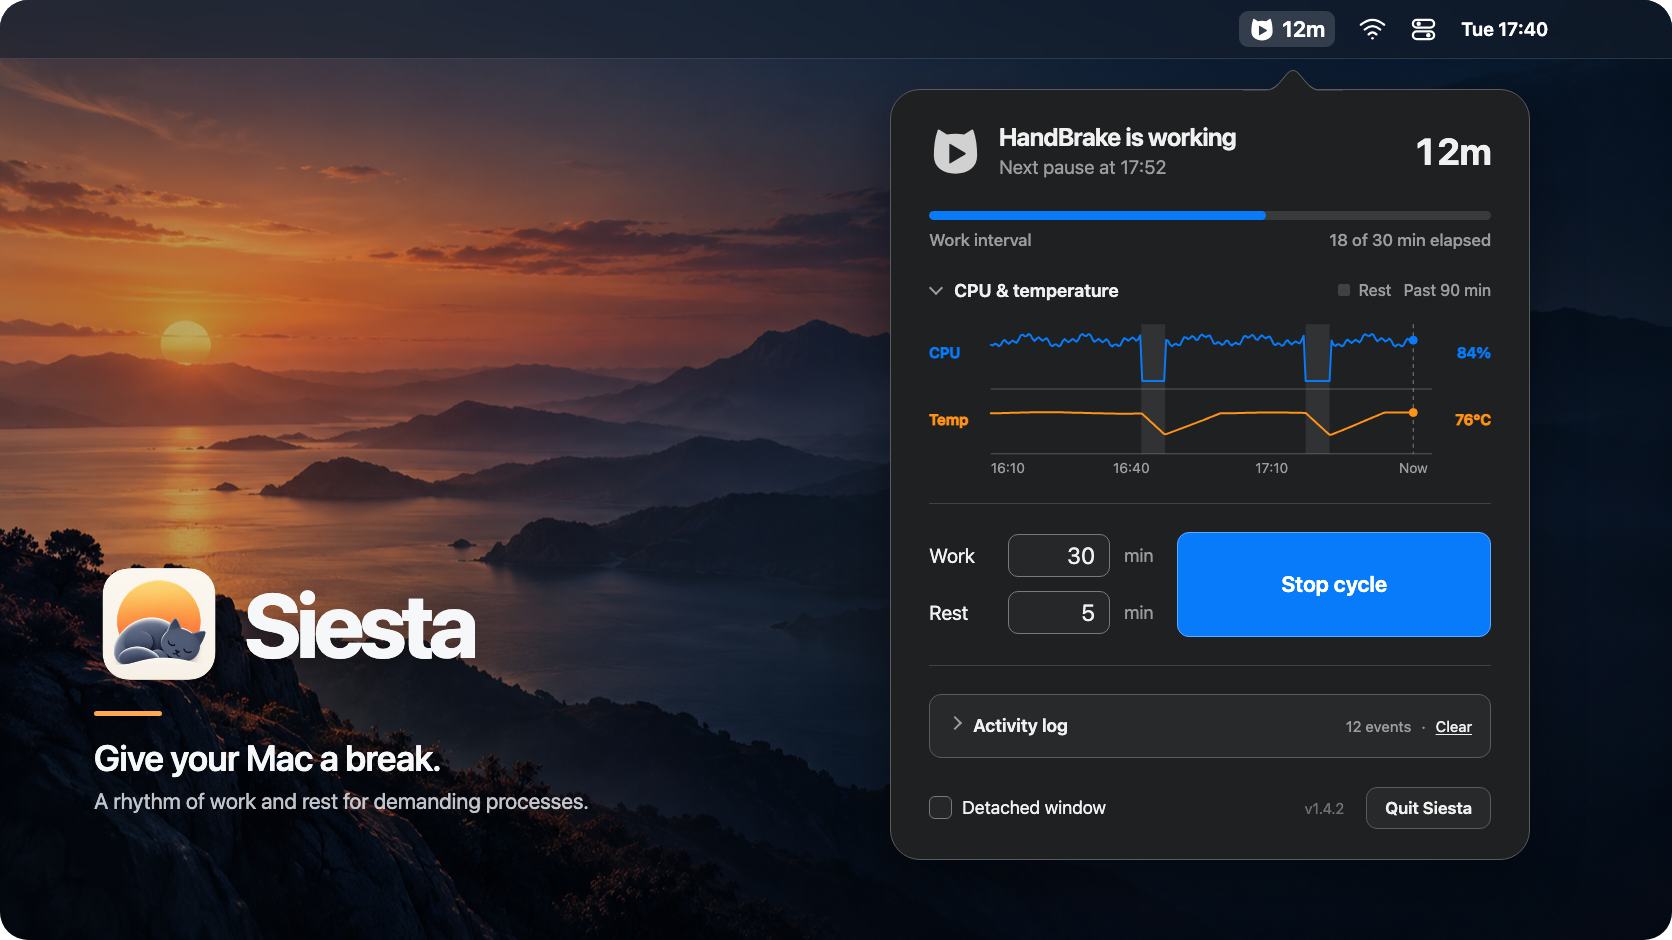
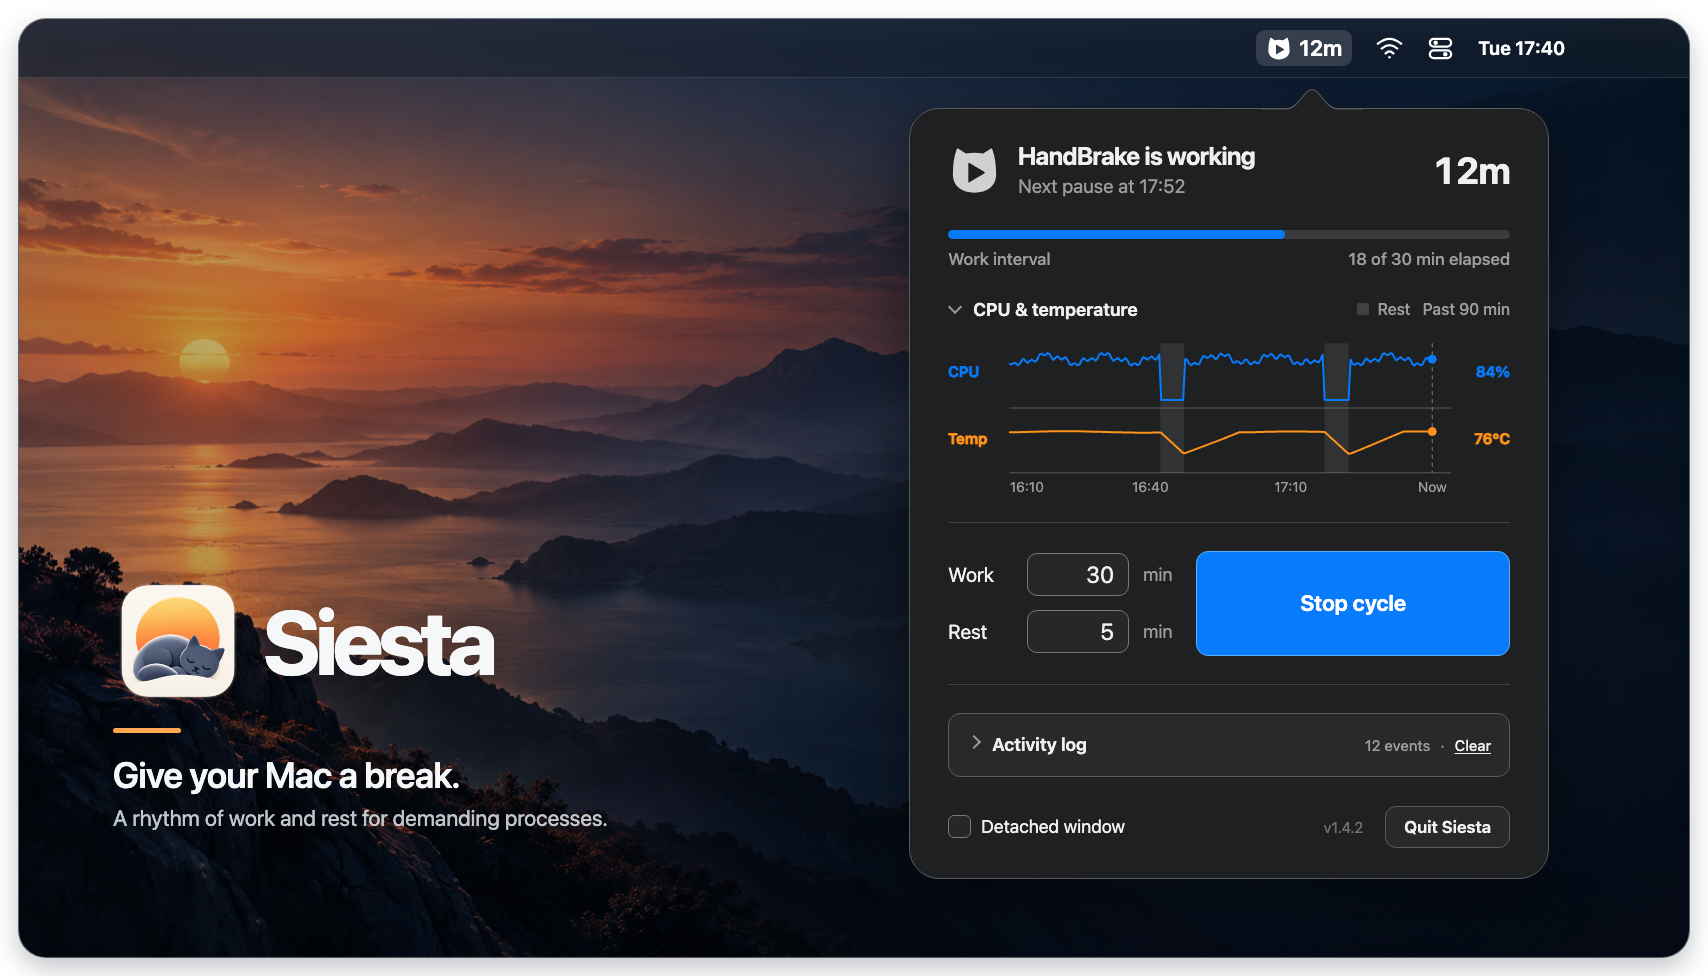
README: refreshed images; section titles and taglines taken from the former image headings

diff --git a/README.md b/README.md
@@ -26,7 +26,9 @@ Currently it watches **HandBrake**. The code is structured so other encoders (Td
 - If HandBrake stays idle for at least the rest duration, the work counter resets: it already had its rest.
 - Stopping or quitting Siesta always resumes a frozen worker first.
 
-### At a glance
+### Four states, one familiar face
+
+*The cat tells you what Siesta is doing, right from the menu bar.*
 
 Siesta keeps its status visible without crowding the menu bar. The cat changes to show whether the cycle is stopped, HandBrake is encoding, taking a scheduled rest, or Siesta is waiting for work. During work and rest, the number beside it shows the minutes until the next change.
 
@@ -38,6 +40,8 @@ Siesta keeps its status visible without crowding the menu bar. The cat changes t
 
 ### The panel
 
+*Everything Siesta knows, one click away.*
+
 Clicking the menu bar icon opens a popover with everything Siesta knows at that moment: the current state and a countdown to the next change, a thin progress line for the running interval, the Work and Rest minutes, the Start/Stop cycle button, a collapsible activity log and a Quit button. "Next pause at" and "Resumes at" show exact times, because pauses start on a whole minute and rests last exactly the minutes you set.
 
 You can change Work and Rest while the cycle runs: the new value applies as soon as you confirm it with Return, Tab or a click elsewhere, and the change appears in the activity log. In the two fields, the ↑ and ↓ keys step the value by one minute, by ten with Shift. **Stop cycle** stops Siesta's cycle, never the encoder.
@@ -46,19 +50,23 @@ You can change Work and Rest while the cycle runs: the new value applies as soon
   <img src="Resources/siesta-interface-compact.png" alt="Compact Siesta popover in light and dark mode, with the graph collapsed to live CPU and temperature readings">
 </a>
 
-### The chart
+### See the cycle unfold
+
+*Open the graph to follow CPU load, temperature and scheduled rests.*
 
 Expand **CPU & temperature** to see the recent history. The blue line is the encoder's CPU usage as a share of the whole Mac, from 0% to 100%; the orange line is the hottest CPU die. The shaded bands mark scheduled rests: CPU usage falls while the worker is paused, and the temperature line shows how the Mac responds.
 
 The chart starts with a five-minute view, grows with the session, and then keeps a rolling six-hour history. Hovering over the plot shows the readings and the time of that moment. Pinch on the trackpad or scroll over the plot to zoom in on the recent part, down to 30 seconds and never beyond the recorded history; click **Reset** to return to the automatic view.
 
-Collapse the chart with the chevron next to its title and the header keeps showing the current CPU and temperature readings, as in the compact view above. Siesta remembers whether you left the chart and the log open or closed.
+Collapse the chart with the chevron next to its title and the header keeps showing the current CPU and temperature readings, as in the compact view above, just the current readings. Siesta remembers whether you left the chart and the log open or closed.
 
 <a href="Resources/siesta-interface-expanded.png">
   <img src="Resources/siesta-interface-expanded.png" alt="Siesta popover in light and dark mode, with a 30-minute work interval, 12 minutes until the next rest, and the graph expanded to show CPU, temperature and shaded rest periods">
 </a>
 
-### The detached window
+### A window when you need one
+
+*Detach the panel and open the activity log.*
 
 Turn on **Detached window** to keep Siesta open as a regular window that floats above your other apps, handy when you want to keep an eye on a long queue without reopening the popover. It holds exactly the same panel, with a little more room for the activity log. Here the chart is collapsed and **Activity log** is expanded, showing recent pauses and resumes. Uncheck Detached window to return to the menu bar popover.
 
